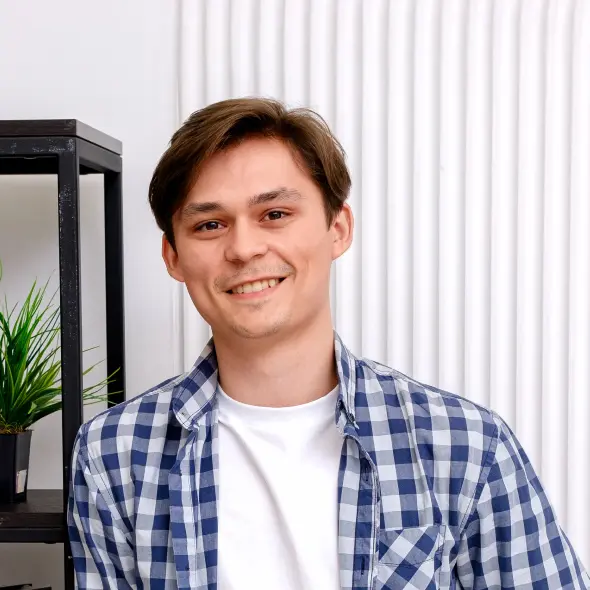
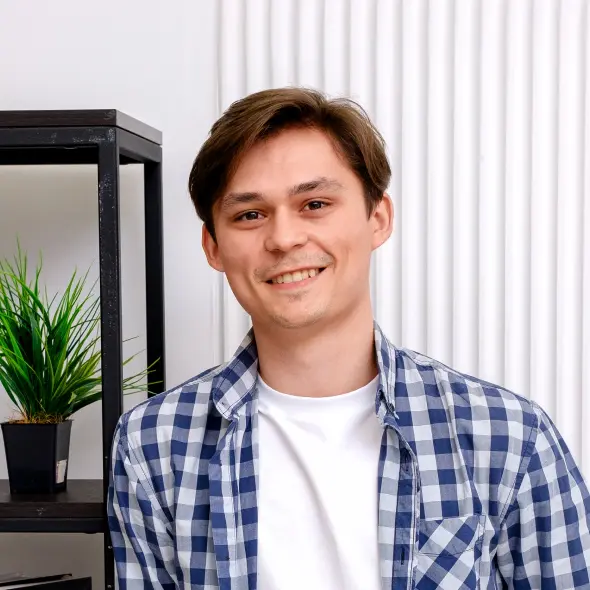
feat: change border-radius

diff --git a/src/components/TeachingStaff/index.scss b/src/components/TeachingStaff/index.scss
@@ -20,18 +20,18 @@
 		width: 768px;
 		height: 768px;
 		background: #ffe2f7;
-		border-radius: 50%;
+		border-radius: 50px;
 		position: absolute;
 		left: -94px;
 		top: -94px;
 	}
 	.slider {
 		position: relative;
-		margin-top: 16px;
+		margin-top: 40px;
 		img {
 			width: 581px;
 			height: 581px;
-			border-radius: 50%;
+			border-radius: 50px;
 		}
 	}
 	.text {
@@ -97,7 +97,7 @@
 		overflow: hidden;
 		width: 581px;
 		height: 581px;
-		border-radius: 50%;
+		border-radius: 50px;
 		img {
 			transition: 0.15s all ease;
 			object-fit: cover;
@@ -151,7 +151,7 @@
 		}
 		.text {
 			padding: 14px 8px 20px 16px;
-			max-width: 300px;
+			max-width: 280px;
 			width: 300px;
 			bottom: 15px;
 			left: 50%;
